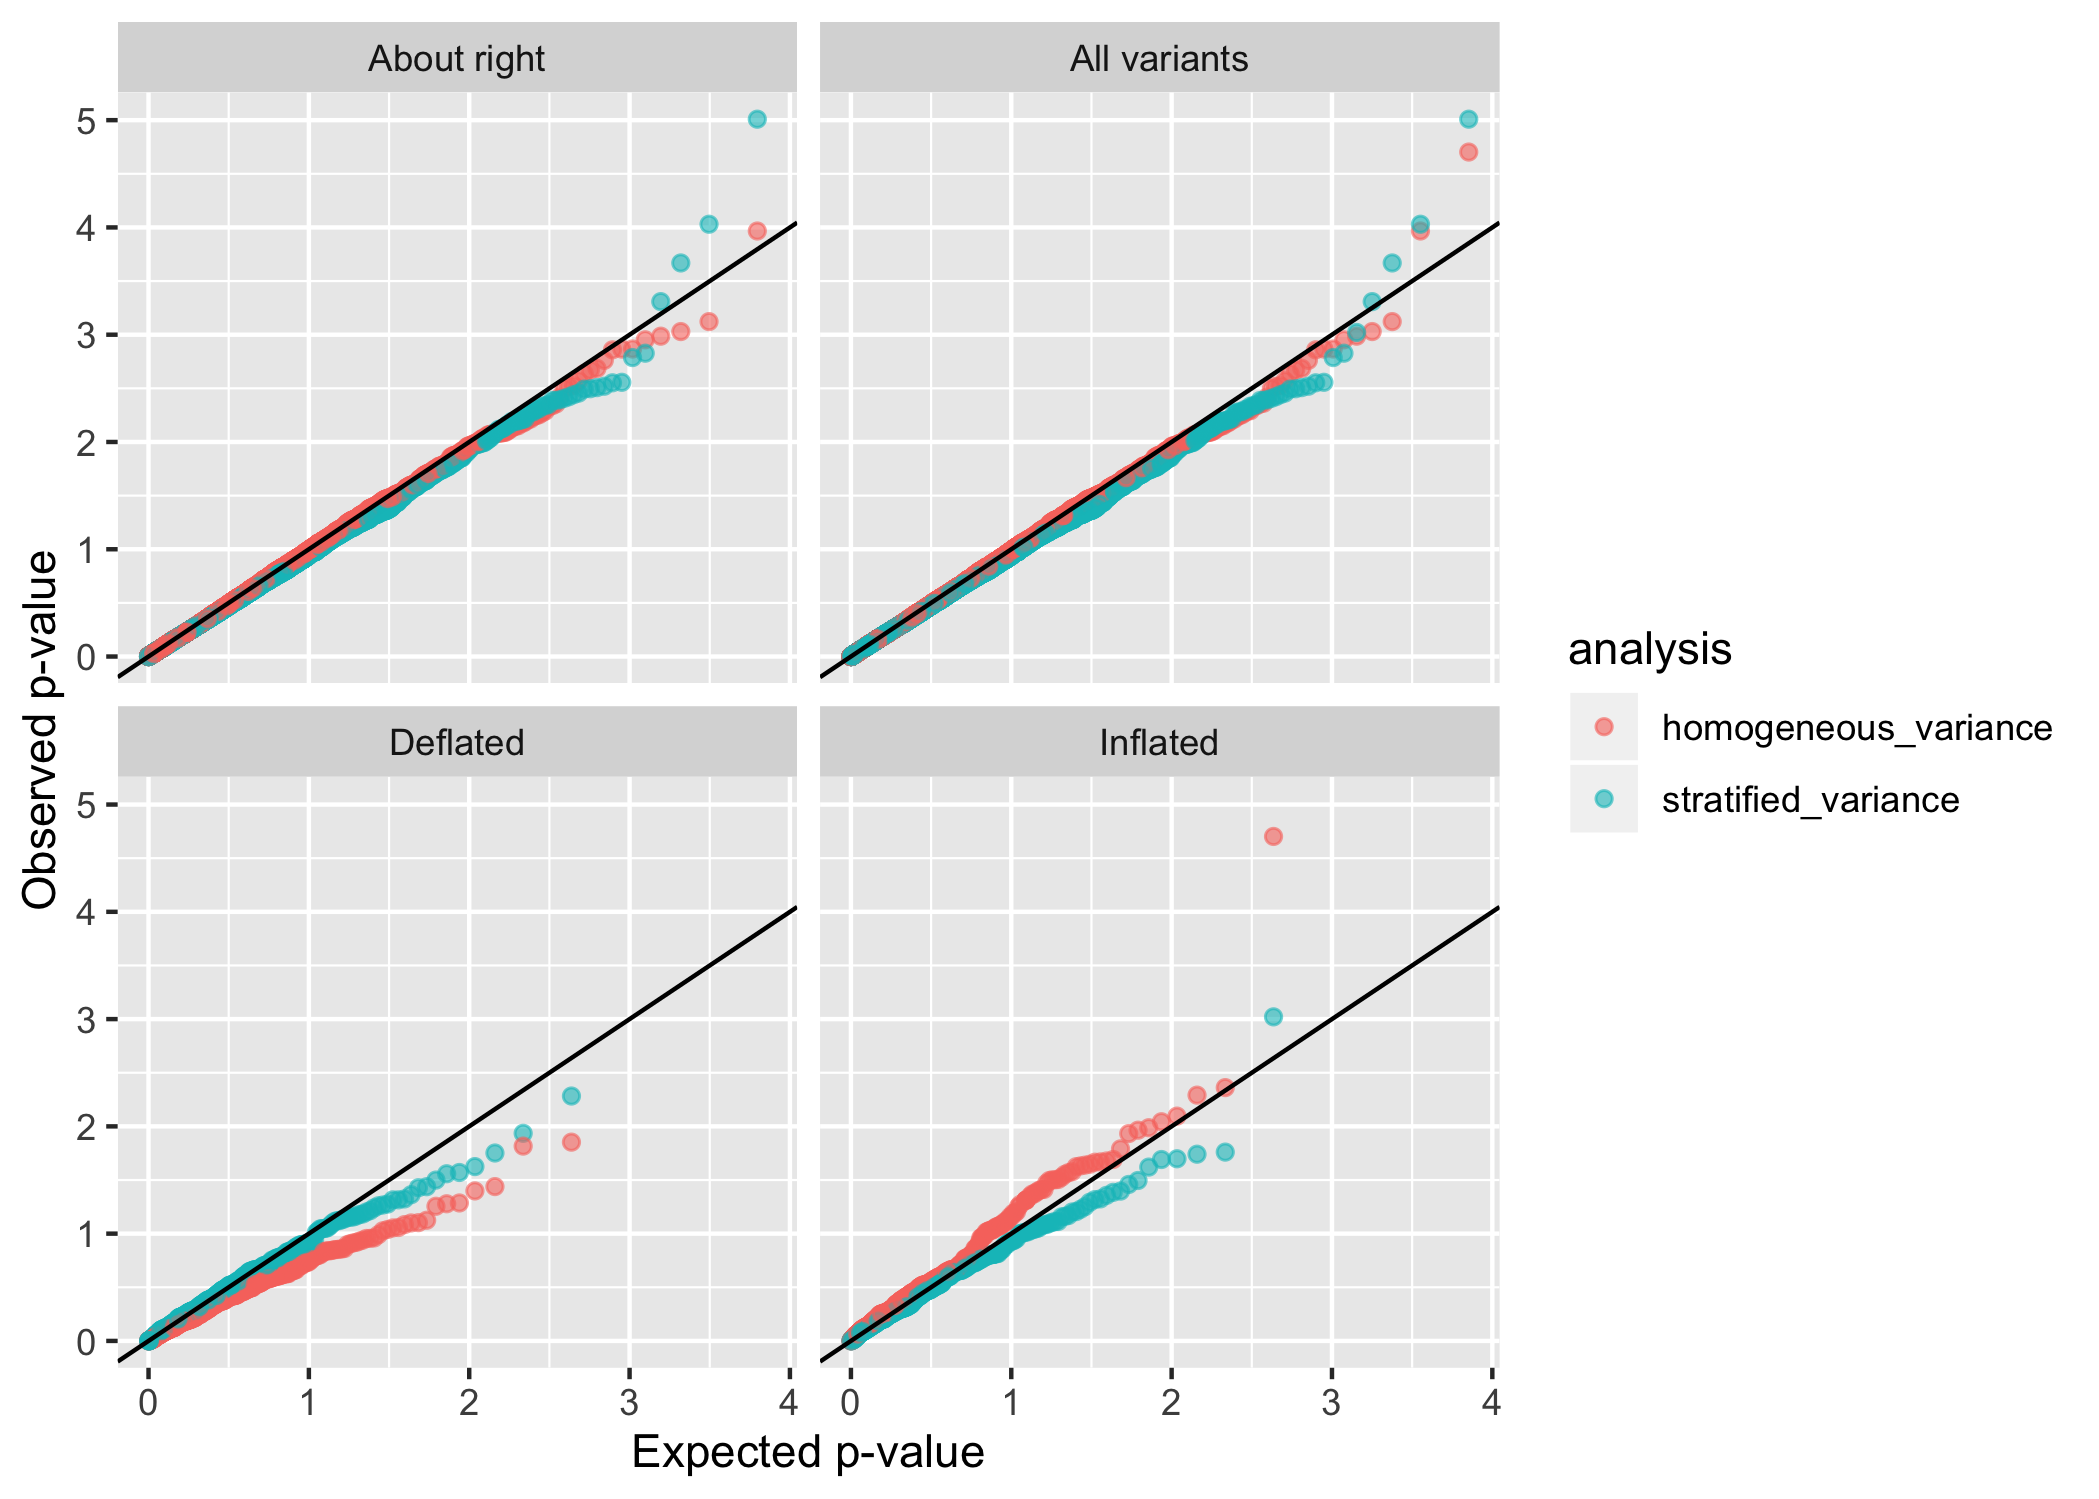
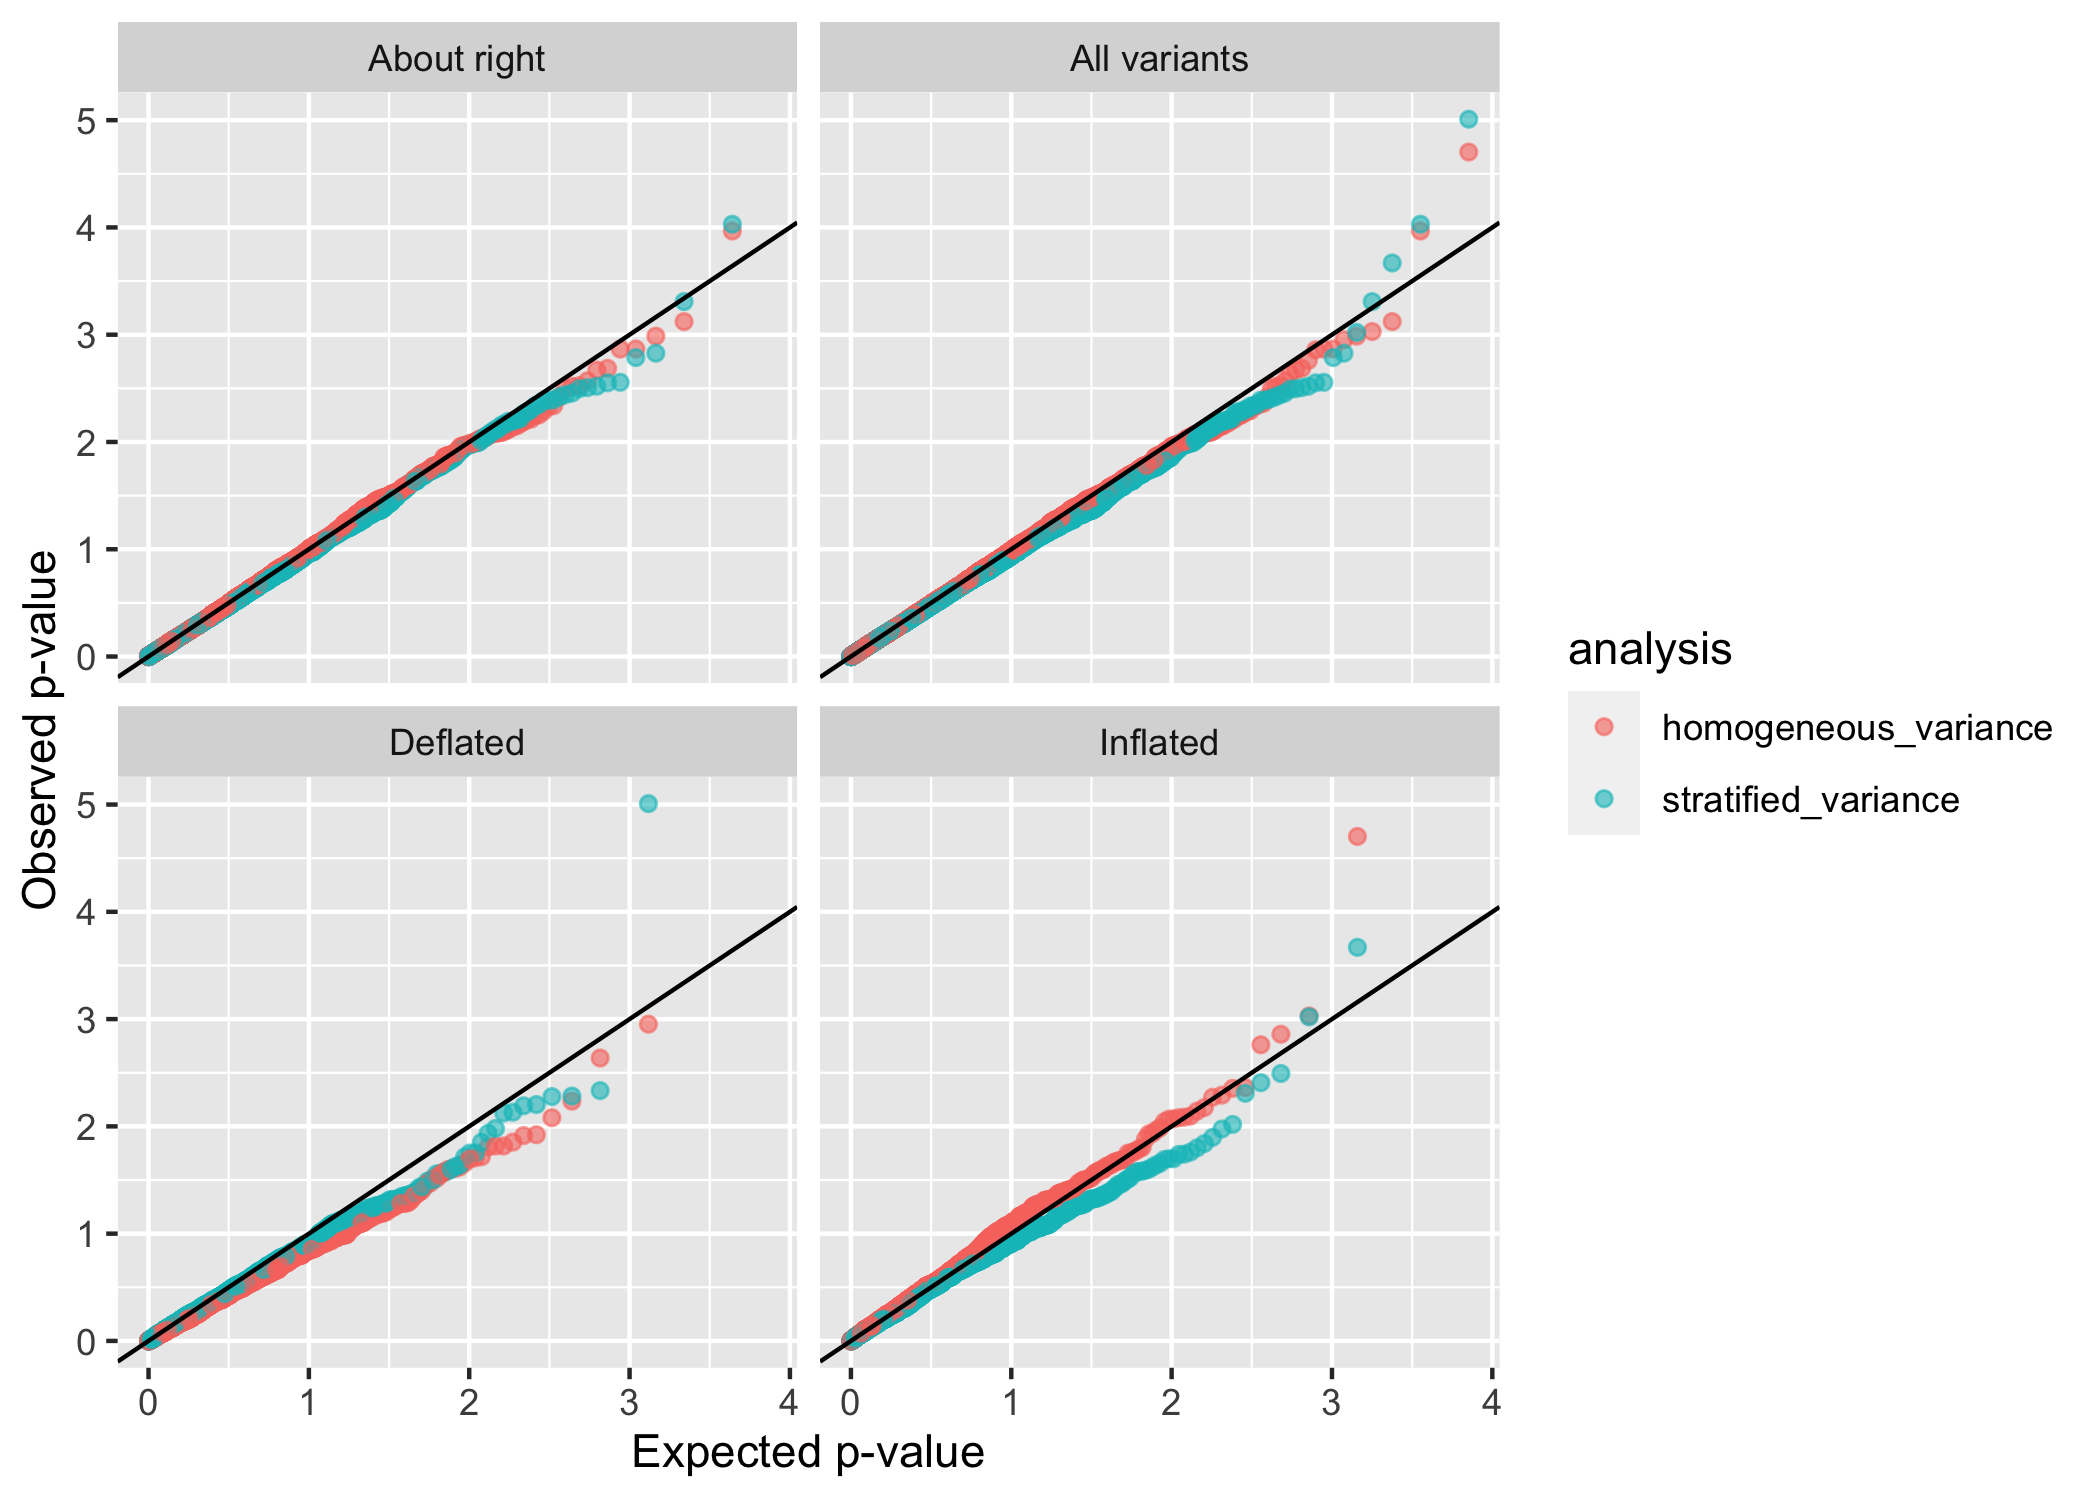
use of variances and scaling
Updated the VS-IF function to use variances rather than standard errors, and squared th the VS-ISs so that they are on the same scale as the lambda genomic controls.

diff --git a/variant_infl_tutorial.html b/variant_infl_tutorial.html
@@ -11,7 +11,7 @@
 
 <meta name="author" content="Tamar Sofer et al." />
 
-<meta name="date" content="2020-03-03" />
+<meta name="date" content="2020-08-12" />
 
 <title>Variant-specific inflation factors: a tutorial</title>
 
@@ -365,7 +365,7 @@ summary {
 
 <h1 class="title toc-ignore">Variant-specific inflation factors: a tutorial</h1>
 <h4 class="author">Tamar Sofer et al.</h4>
-<h4 class="date">2020-03-03</h4>
+<h4 class="date">2020-08-12</h4>
 
 </div>
 
@@ -428,21 +428,21 @@ phen</code></pre>
 ## 498:   p498    g3 45.51238 65.47968
 ## 499:   p499    g3 43.73817 64.97567
 ## 500:   p500    g3 41.66499 54.46750</code></pre>
-<pre class="r"><code># compute residual standard deviations by group after regressing on age:
-residual_SDs &lt;- phen[, sd(lm(trait ~ age)$resid), by = &quot;group&quot;]
-residual_SDs_vec &lt;- residual_SDs$V1
-names(residual_SDs_vec) &lt;- residual_SDs$group
+<pre class="r"><code># compute residual variances by group after regressing on age:
+residual_vars &lt;- phen[, var(lm(trait ~ age)$resid), by = &quot;group&quot;]
+residual_vars_vec &lt;- residual_vars$V1
+names(residual_vars_vec) &lt;- residual_vars$group
 
 # these are the estimated residual standard deviations: 
-residual_SDs_vec</code></pre>
-<pre><code>##       g1       g2       g3 
-## 1.074580 1.867516 3.193658</code></pre>
+residual_vars_vec</code></pre>
+<pre><code>##        g1        g2        g3 
+##  1.154721  3.487617 10.199452</code></pre>
 <p>The approximate inflation factors will also use the sample sizes of the different groups that were pooled together:</p>
 <pre class="r"><code># compute group sample sizes
 ns &lt;- table(phen$group) 
 
 # make sure that the order matches that of the residual SDs vector:
-ns &lt;- ns[names(residual_SDs_vec)] </code></pre>
+ns &lt;- ns[names(residual_vars_vec)] </code></pre>
 <p>We are going to perform association testing with the genotypes. We will now compute allele frequencies across the genotypes that will be tested. These frequencies will be used when computing inflation factors. In the following code, we compute allele frequencies by group. One could use built-in functions, but here is a code that assumes genotypes are on autosomes and computes the frequencies:</p>
 <pre class="r"><code>freq_list &lt;- vector(mode = &quot;list&quot;, length = length(unique(phen$group)))
 names(freq_list) &lt;- unique(phen$group)
@@ -455,7 +455,7 @@ for (i in 1:length(freq_list)){
 eafs &lt;- do.call(cbind, freq_list)
 
 # make sure that the columns order matches the SD vector:
-eafs &lt;- eafs[,names(residual_SDs_vec)]</code></pre>
+eafs &lt;- eafs[,names(residual_vars_vec)]</code></pre>
 </div>
 <div id="computing-approximate-inflation-factors-based-on-allele-frequencies-sample-sizes-and-residual-standard-deviations" class="section level1">
 <h1>Computing approximate inflation factors based on allele frequencies, sample sizes, and residual standard deviations</h1>
@@ -467,7 +467,7 @@ for (j in 1:length(expected_inf)){
         expected_inf[j] &lt;- 
           compute_variant_inflation_factor(eafs = cur_eafs, 
                                            ns = ns, 
-                                           sigmas = residual_SDs_vec)[[&quot;Inflation_factor&quot;]]
+                                           sigma_sqs = residual_vars_vec)[[&quot;Inflation_factor&quot;]]
 }
 
 exp_inf &lt;- data.frame(variant_id = snpID, 
@@ -476,7 +476,7 @@ exp_inf &lt;- data.frame(variant_id = snpID,
 </div>
 <div id="performing-associating-testing-homogeneous-variance-model" class="section level1">
 <h1>Performing associating testing: homogeneous variance model</h1>
-<p>We use the R/Bioconductor GENESIS package. We first fit a “null model”, and then use it for association testing. In the code, we fit the null model twice, because we use the fully-adjusted two stage procedure described in Sofer et al. (2019, Gen Epi).</p>
+<p>We use the R/Bioconductor GENESIS package. We first fit a “null model”, and then use it for association testing. In the code, we fit the null model twice, because we use the fully-adjusted two stage procedure described in Sofer et al. (2019, Gen Epi).</p>
 <pre class="r"><code>phen$group &lt;- as.factor(phen$group)
 phen &lt;- data.frame(phen)
 # fit null model (homogeneous residual variance).
@@ -557,41 +557,54 @@ qq_plot_by_region(pval_df = pval_df[,c(&quot;homogeneous_variance&quot;,&quot;st
 <div id="record-r-package-versions" class="section level1">
 <h1>Record R package versions</h1>
 <pre class="r"><code>sessionInfo()</code></pre>
-<pre><code>## R version 3.6.2 (2019-12-12)
-## Platform: x86_64-apple-darwin15.6.0 (64-bit)
-## Running under: macOS Catalina 10.15.3
+<pre><code>## R version 4.0.0 (2020-04-24)
+## Platform: x86_64-apple-darwin17.0 (64-bit)
+## Running under: macOS Catalina 10.15.6
 ## 
 ## Matrix products: default
 ## BLAS:   /System/Library/Frameworks/Accelerate.framework/Versions/A/Frameworks/vecLib.framework/Versions/A/libBLAS.dylib
-## LAPACK: /Library/Frameworks/R.framework/Versions/3.6/Resources/lib/libRlapack.dylib
+## LAPACK: /Library/Frameworks/R.framework/Versions/4.0/Resources/lib/libRlapack.dylib
 ## 
 ## locale:
 ## [1] en_US.UTF-8/en_US.UTF-8/en_US.UTF-8/C/en_US.UTF-8/en_US.UTF-8
 ## 
 ## attached base packages:
-## [1] parallel  stats     graphics  grDevices utils     datasets  methods   base     
+## [1] parallel  stats     graphics  grDevices utils     datasets  methods  
+## [8] base     
 ## 
 ## other attached packages:
-## [1] GENESIS_2.16.1      dummies_1.5.6       GWASTools_1.32.0    Biobase_2.46.0      BiocGenerics_0.32.0 ggplot2_3.2.1       data.table_1.12.8  
-## [8] tidyr_1.0.0         rmarkdown_2.1      
+## [1] rmarkdown_2.3       GENESIS_2.18.0      dummies_1.5.6      
+## [4] GWASTools_1.34.0    Biobase_2.48.0      BiocGenerics_0.34.0
+## [7] ggplot2_3.3.0       data.table_1.12.8   tidyr_1.1.0        
 ## 
 ## loaded via a namespace (and not attached):
-##  [1] nlme_3.1-143           bitops_1.0-6           bit64_0.9-7            GenomeInfoDb_1.22.0    tools_3.6.2            backports_1.1.5       
-##  [7] R6_2.4.1               rpart_4.1-15           DBI_1.1.0              lazyeval_0.2.2         mgcv_1.8-31            colorspace_1.4-1      
-## [13] jomo_2.6-10            SNPRelate_1.20.1       nnet_7.3-12            DNAcopy_1.60.0         withr_2.1.2            tidyselect_0.2.5      
-## [19] bit_1.1-15.1           compiler_3.6.2         quantreg_5.54          mice_3.7.0             SparseM_1.78           sandwich_2.5-1        
-## [25] labeling_0.3           scales_1.1.0           lmtest_0.9-37          quantsmooth_1.52.0     stringr_1.4.0          digest_0.6.23         
-## [31] minqa_1.2.4            GWASExactHW_1.01       XVector_0.26.0         pkgconfig_2.0.3        htmltools_0.4.0        lme4_1.1-21           
-## [37] rlang_0.4.2            RSQLite_2.2.0          farver_2.0.3           generics_0.0.2         zoo_1.8-7              dplyr_0.8.3           
-## [43] RCurl_1.98-1.1         magrittr_1.5           GenomeInfoDbData_1.2.2 Matrix_1.2-18          Rcpp_1.0.3             munsell_0.5.0         
-## [49] S4Vectors_0.24.3       lifecycle_0.1.0        stringi_1.4.5          yaml_2.2.0             MASS_7.3-51.5          zlibbioc_1.32.0       
-## [55] grid_3.6.2             blob_1.2.1             mitml_0.3-7            crayon_1.3.4           lattice_0.20-38        Biostrings_2.54.0     
-## [61] splines_3.6.2          zeallot_0.1.0          knitr_1.27             pillar_1.4.3           GenomicRanges_1.38.0   boot_1.3-24           
-## [67] logistf_1.23           codetools_0.2-16       gdsfmt_1.22.0          stats4_3.6.2           pan_1.6                glue_1.3.1            
-## [73] evaluate_0.14          vctrs_0.2.1            nloptr_1.2.1           foreach_1.4.7          MatrixModels_0.4-1     gtable_0.3.0          
-## [79] purrr_0.3.3            SeqArray_1.26.2        assertthat_0.2.1       xfun_0.12              broom_0.5.3            SeqVarTools_1.24.0    
-## [85] survival_3.1-8         tibble_2.1.3           iterators_1.0.12       tinytex_0.19           memoise_1.1.0          IRanges_2.20.2        
-## [91] ellipsis_0.3.0</code></pre>
+##  [1] bit64_0.9-7            splines_4.0.0          foreach_1.5.0         
+##  [4] assertthat_0.2.1       stats4_4.0.0           blob_1.2.1            
+##  [7] GenomeInfoDbData_1.2.3 GWASExactHW_1.01       yaml_2.2.1            
+## [10] pillar_1.4.4           RSQLite_2.2.0          backports_1.1.7       
+## [13] lattice_0.20-41        quantreg_5.55          glue_1.4.1            
+## [16] digest_0.6.25          GenomicRanges_1.40.0   XVector_0.28.0        
+## [19] colorspace_1.4-1       sandwich_2.5-1         htmltools_0.5.0       
+## [22] Matrix_1.2-18          pkgconfig_2.0.3        broom_0.5.6           
+## [25] SparseM_1.78           zlibbioc_1.34.0        purrr_0.3.4           
+## [28] scales_1.1.1           SeqVarTools_1.26.0     MatrixModels_0.4-1    
+## [31] tibble_3.0.1           mgcv_1.8-31            generics_0.0.2        
+## [34] farver_2.0.3           IRanges_2.22.2         ellipsis_0.3.1        
+## [37] withr_2.2.0            cli_2.0.2              survival_3.1-12       
+## [40] SNPRelate_1.22.0       magrittr_1.5           crayon_1.3.4          
+## [43] evaluate_0.14          memoise_1.1.0          mice_3.9.0            
+## [46] fansi_0.4.1            nlme_3.1-147           SeqArray_1.28.0       
+## [49] tools_4.0.0            lifecycle_0.2.0        stringr_1.4.0         
+## [52] S4Vectors_0.26.1       munsell_0.5.0          gdsfmt_1.24.0         
+## [55] Biostrings_2.56.0      compiler_4.0.0         GenomeInfoDb_1.24.0   
+## [58] logistf_1.23           rlang_0.4.6            grid_4.0.0            
+## [61] RCurl_1.98-1.2         iterators_1.0.12       rstudioapi_0.11       
+## [64] bitops_1.0-6           labeling_0.3           DNAcopy_1.62.0        
+## [67] gtable_0.3.0           codetools_0.2-16       DBI_1.1.0             
+## [70] R6_2.4.1               zoo_1.8-8              knitr_1.29            
+## [73] dplyr_0.8.5            bit_1.1-15.2           stringi_1.4.6         
+## [76] Rcpp_1.0.4.6           quantsmooth_1.54.0     vctrs_0.3.0           
+## [79] tidyselect_1.1.0       xfun_0.16              lmtest_0.9-37</code></pre>
 </div>
 
 
